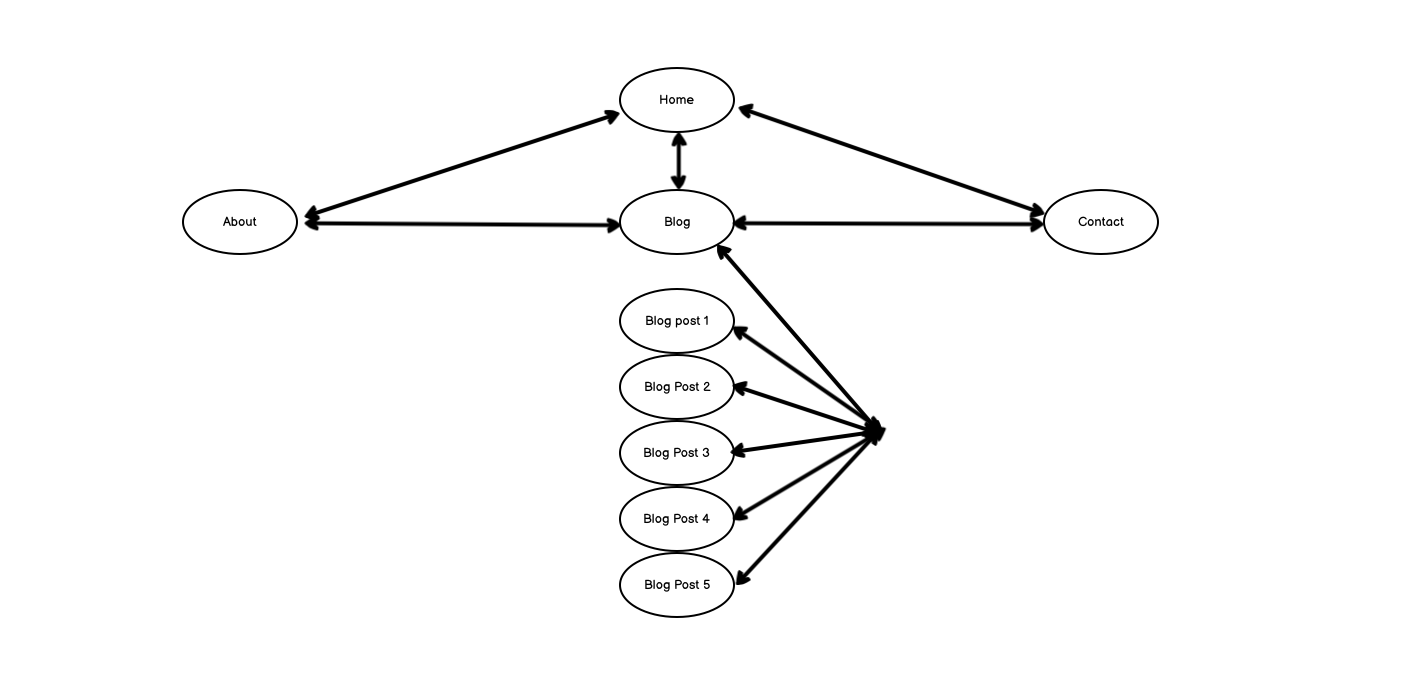
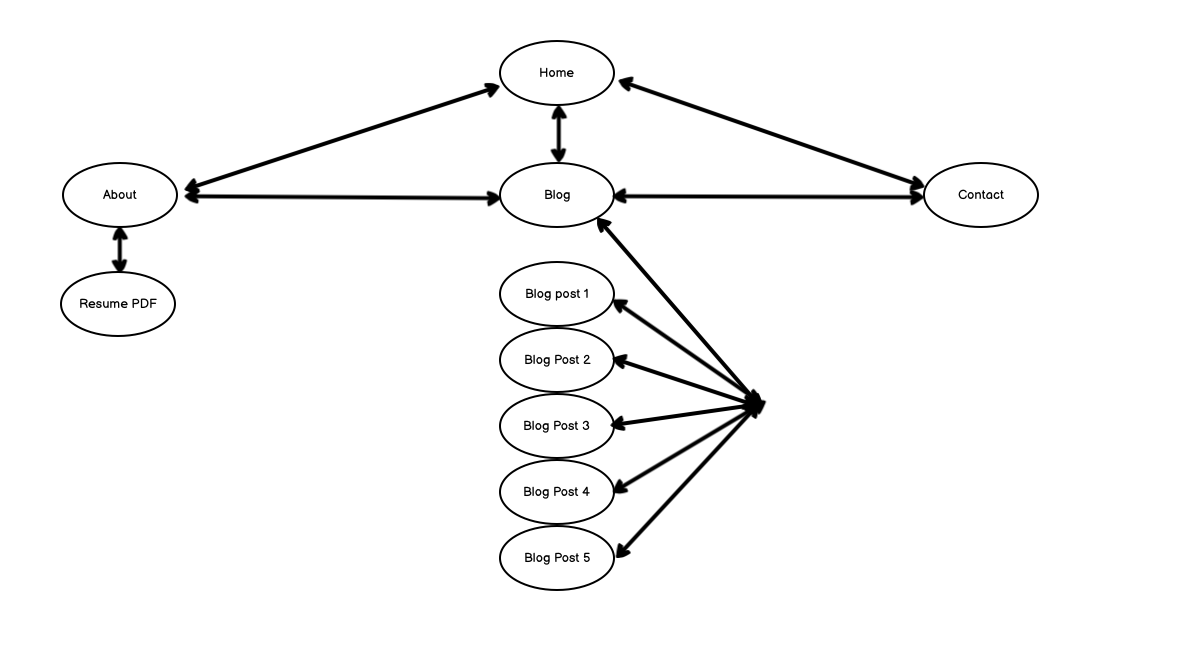
Updated sitemap and readme

diff --git a/README.md b/README.md
@@ -3,23 +3,46 @@ My portfolio website for Coder Academy Term 1 Assessment 2.
 
 [Here is the link to my GitHub repository](https://github.com/iamcrjones/CameronJones_T1A2)
 
+[Link to my deployed portfolio site](https://crjones.netlify.app/)
 
-### 21.10.30
-I have created the wireframes for my portfolio pages. I decided to try going with a more simple design and will begin choosing a colour pallet that will elevate the simple look.
-I have also written down checklists and ToDo lists for the assignment.
-### 21.11.01
-I have selected the first set of fonts to use for headers and body text.
-Wireframes have been redone with a traditional navbar instead of a hamburger style button because even thought it can be done in CSS, I would rather do it in JavaScript but do not have the knowledge on how to do so. It would be unwise of me to put code into my website without fully understanding it.
+## Purpose
+The purpose of this website is to act as a portfolio to show off my skills and the work I have done to potential employers. This website contains methods of contact, some information about me and also demonstrates my web development skills I have learned so far.
 
-![Home page](/docs/Wireframes/wireframe-home.png)
-![About page](/docs/Wireframes/wireframe-about.png)
-![Blog Posts page](/docs/Wireframes/wireframe-blogList.png)
+## Features and Functionality
+
+This is the first website that I have made while keeping responsiveness and accessibility in mind throughout the project, making sure it passes audit tests so that it is easily accessible which has helped me improve my site to be stable and loads quickly.
+
+## Components
+
+Many components were designed so that interaction with my portfolio is intuitive:
+
+* Nav bar allows users to navigate the website and navigate
+* Social icons which are used as a means of contact with others
+* Cards with previews of blog posts that link to the full article
+* Buttons to be able to tell exactly what is a link in some components
+* Hover functions allow the user to know if their cursor is focusing on an element that
+
+## Sitemap
+
+![Sitemap](./docs/Images/Sitemap.png)
+
+## Wireframes
+
+![Home page](./docs/Wireframes/wireframe-home.png)
+![About page](./docs/Wireframes/wireframe-about.png)
+![Blog Posts page](./docs/Wireframes/wireframe-blogList.png)
 ![Blog Article page](/docs/Wireframes/wireframe-blogArticle.png)
-![Contact page](/docs/Wireframes/wireframe-contact.png)
+![Contact page](./docs/Wireframes/wireframe-contact.png)
 
-### 21.11.03
-I have built the navbar linking all of the other pages together. Ive begun styling the homepage and main header experimenting with colours.
+## Target Audience
 
+The target audience for my portfolio is future/potential employers. It allows them to see an overview of my personality, my skills, and what I am capable of and also provides them with means to contact me.
 
+## Tech stack
+
+HTML
+CSS
+Netlify for deployment
+GitHub for version control
 
 
